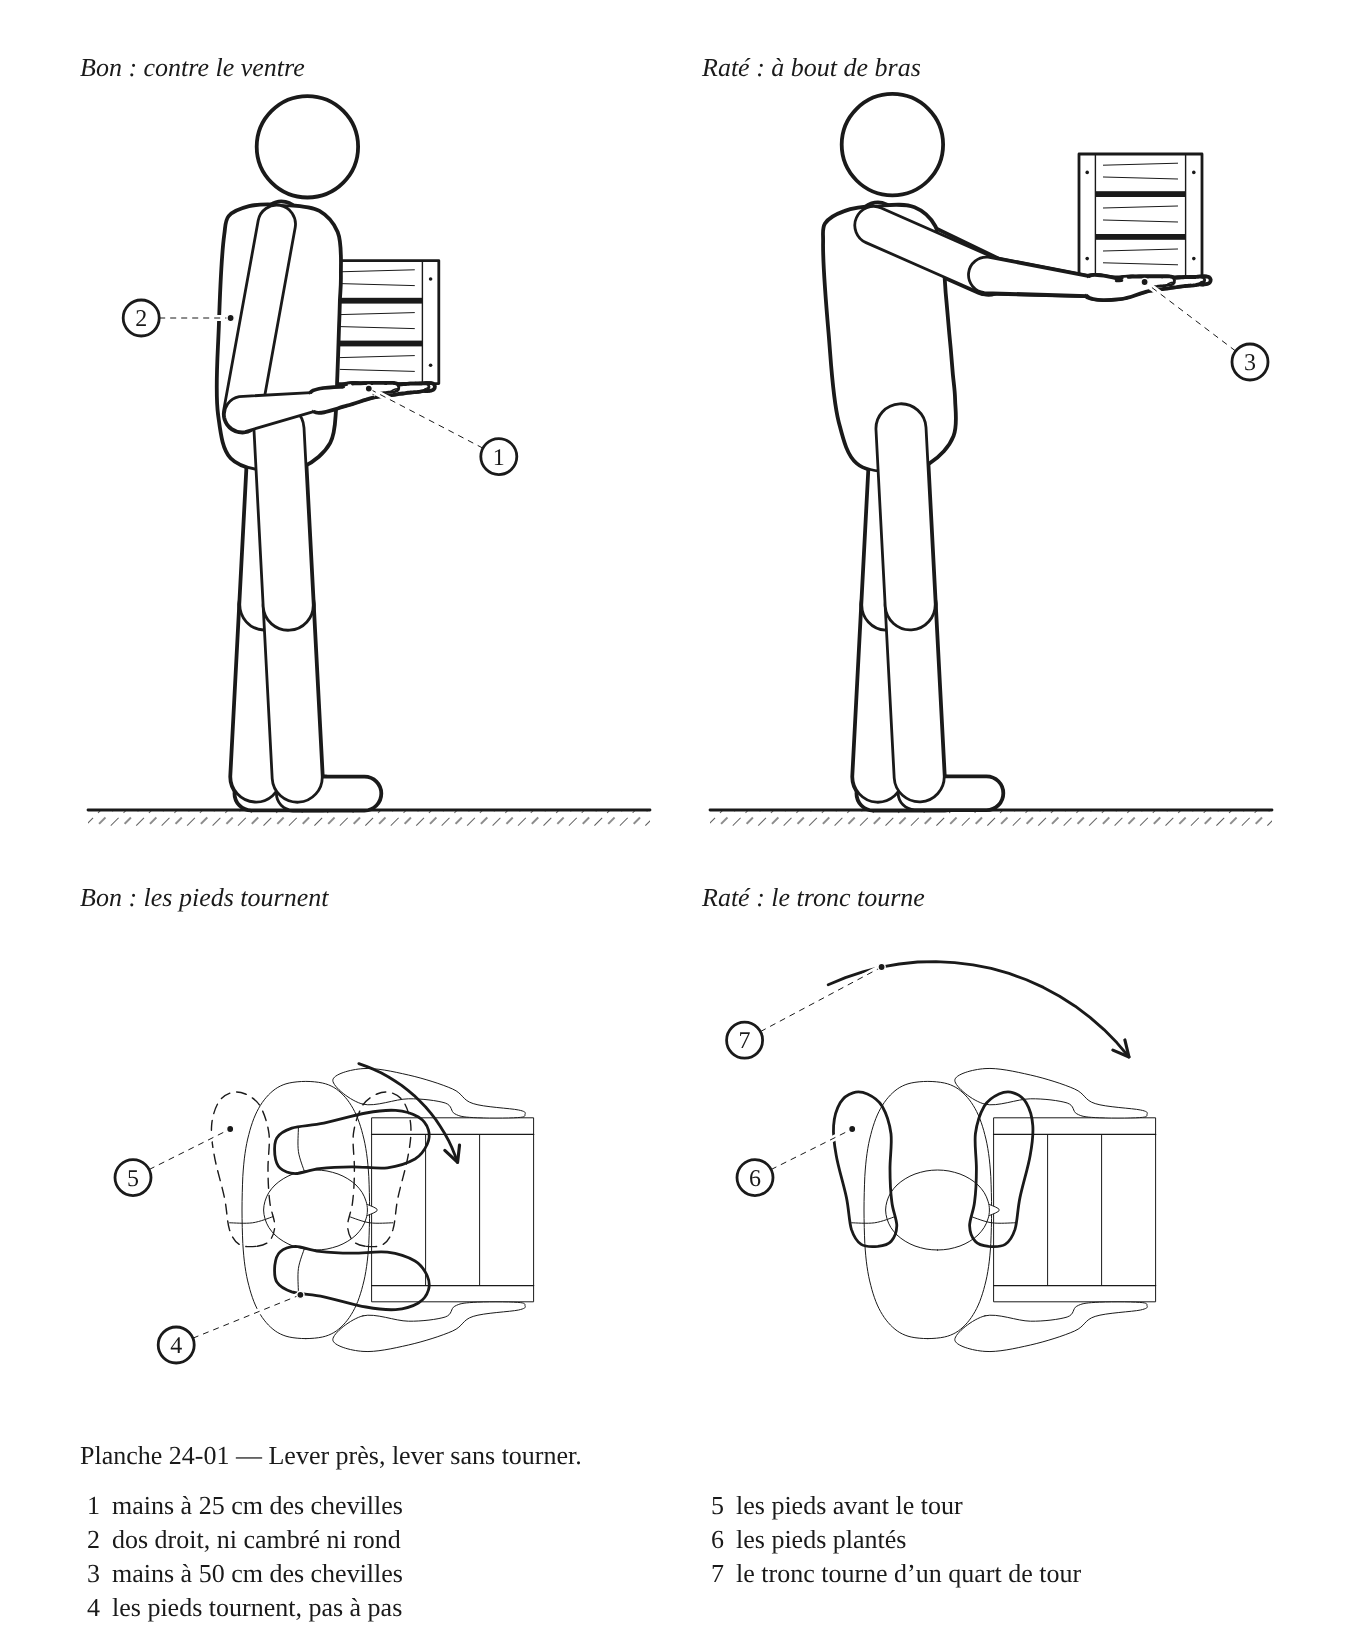
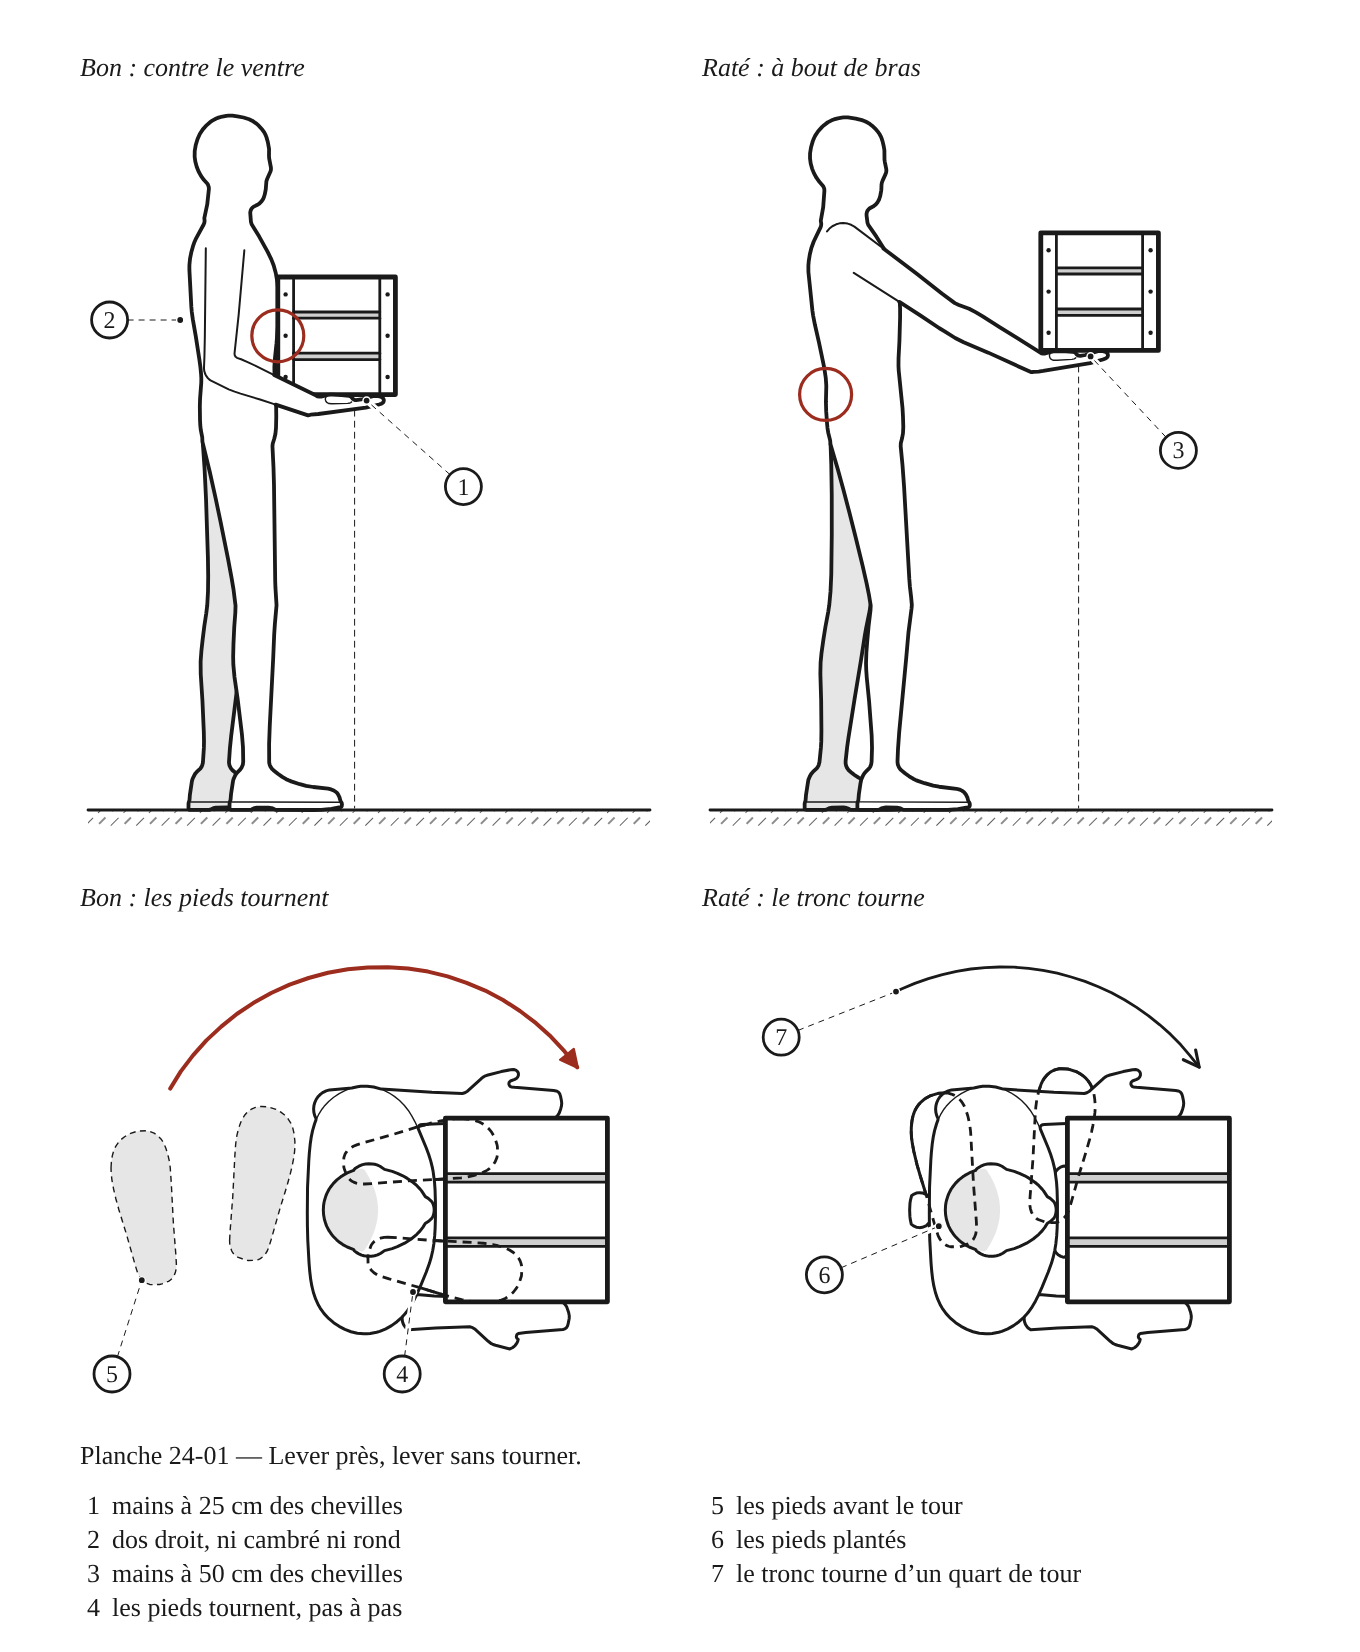
Corps simples dans les planches : pilote 99-05
Claude-Session: https://claude.ai/code/session_014xDY5FLxFXDJt3nYAYznSZ

diff --git a/images/planches-src/26-40.js b/images/planches-src/26-40.js
@@ -169,19 +169,23 @@ module.exports = (h) => {
     const pat0 = F.corps({ x: 0, y: yg, pose: 'couche-dos', echelle: e }), dp = x + (l - (pat0.boite.x1 - pat0.boite.x0)) / 2 - pat0.boite.x0 + 2;
     const A = pat0.articulations;
     const xt = A.hancheP[0] + 0.5 * (A.genouP[0] - A.hancheP[0]), yt = Math.min(...coupesX(pat0, xt));
-    const a = 4, ep = 28 * e;                                   // le bras droit ; l'épaisseur d'une main
-    const angles = (t, ab) => ({ tronc: t, brasP: a, avantbrasP: a, mainP: 90, brasL: a - (ab - a) * 0.5, avantbrasL: ab, mainL: 90 });
-    const essai = (t, ab) => F.corps({ x: 0, y: yg, pose: 'genoux-appuie', echelle: e, trait: 'fort', angles: angles(t, ab) });
-    const t = bissection(t => essai(t, a).mainP.y - yt, 20, 80);
-    const ab = bissection(ab => { const g = essai(t, ab); return (g.mainP.y - ep) - g.mainL.y; }, a, a + 40, 9);
-    const g0 = essai(t, ab), da = xt + dp - g0.mainP.x;
+    // Les deux mains à plat l'une sur l'autre ne se lisent pas à cette taille (une main fait 3 px
+    // d'épaisseur) : la main loin reste cachée derrière la proche, la vue de dessus montre les deux.
+    const a = 4, angles = t => ({ tronc: t, brasP: a, avantbrasP: a, mainP: 90, brasL: a, avantbrasL: a, mainL: 90 });
+    const essai = t => F.corps({ x: 0, y: yg, pose: 'genoux-appuie', echelle: e, trait: 'fort', angles: angles(t) });
+    const t = bissection(t => essai(t).mainP.y - yt, 20, 80);
+    const g0 = essai(t), da = xt + dp - g0.mainP.x;
     const S = [g0.articulations.epauleP[0] + da, g0.articulations.epauleP[1]], W = [g0.articulations.poignetP[0] + da, g0.articulations.poignetP[1]];
-    // la flèche du geste : le long des bras, du côté du tronc, jusqu'au-dessus des mains
+    // ses genoux, ses tibias et ses pieds sont derrière le blessé : coupés sous le dessus de la
+    // cuisse (sinon le pied dépasse derrière la tête et le tibia double le dos au sol)
+    const idc = 'rogne-26-40-aidant';
+    const aid = `<clipPath id="${idc}"><rect x="${f(x)}" y="${f(y)}" width="${f(l)}" height="${f(yt + 1 - y)}"/></clipPath>\n<g clip-path="url(#${idc})">\n${deplace(g0, da)}\n</g>`;
+    // la flèche du geste : le long des bras, côté tronc, jusqu'au-dessus des mains
     const u = [W[0] - S[0], W[1] - S[1]], lu = Math.hypot(u[0], u[1]), n = [-u[1] / lu, u[0] / lu];
-    const off = -7, p0 = [S[0] + u[0] * 0.18 + n[0] * off, S[1] + u[1] * 0.18 + n[1] * off], p1 = [S[0] + u[0] * 0.86 + n[0] * off, S[1] + u[1] * 0.86 + n[1] * off];
-    return (memo[cle] = { svg: [h.rect(x, y, l, ht, h.a.fin), deplace(g0, da), deplace(pat0, dp), h.ligne(x + 3, yg, x + l - 3, yg, h.a.detail),
+    const off = 10, p0 = [S[0] + u[0] * 0.15 + n[0] * off, S[1] + u[1] * 0.15 + n[1] * off], p1 = [S[0] + u[0] * 0.9 + n[0] * off, S[1] + u[1] * 0.9 + n[1] * off];
+    return (memo[cle] = { svg: [h.rect(x, y, l, ht, h.a.fin), aid, deplace(pat0, dp), h.ligne(x + 3, yg, x + l - 3, yg, h.a.detail),
       h.geste(`M${pt(p0)} L${pt(p1)}`)].join('\n'),
-      bras: [(S[0] + W[0]) / 2, (S[1] + W[1]) / 2], W, mainP: [g0.mainP.x + da, g0.mainP.y], tronc: t, ab });
+      bras: [(S[0] + W[0]) / 2, (S[1] + W[1]) / 2], W, mainP: [g0.mainP.x + da, g0.mainP.y], tronc: t });
   };
   // ─── A. Appuyer : vue de dessus, la cuisse de la hanche au genou, la compresse sur la plaie, les
   // deux mains à plat l'une sur l'autre ; en haut, la posture qui met le poids dans les bras tendus.

diff --git a/images/planches-src/99-05.js b/images/planches-src/99-05.js
@@ -1,6 +1,10 @@
 // Planche 99-05 — Faucher à la faux, et aiguiser à la pierre.
 // Chapitre 99, étapes 54 et 55. Aucune cote : le chapitre ne donne aucune mesure de fabrication
 // (le manche est « à la taille du faucheur ») ; 75 cm et 175 cm sont dans la légende.
+// Le faucheur est le corps simple de la bibliothèque (pose « faucher »). La charte : la faux pèse
+// (contour 2,4) ; le fauché en gris loin ; la face à l'ombre du manche, de l'anneau et du biseau ;
+// le rouge sur le coup (dessus), la pierre qui descend du dos au fil (debout, en coupe), la lame à
+// plat à contrôler (profil) et la zone du fil, là où la pierre dérape (étape 55).
 module.exports = (h) => {
   const F = h.formes;
   const f = v => (+v).toFixed(1);
@@ -138,7 +142,7 @@ module.exports = (h) => {
   return {
     ref: '99-05',
     titre: 'Faucher à la faux, et aiguiser à la pierre',
-    desc: 'De profil, le faucheur réglé sur sa faux : bras tendus, les deux mains à peu près à la même hauteur sur les poignées, la lame à plat sur le sol. Vu de dessus : les pieds, la lame en milieu de coup, le demi-cercle de droite à gauche vers l’herbe déjà fauchée, la marche en ligne droite et l’andain laissé derrière. Debout, le manche posé par terre et la pointe à droite : la main gauche tient la lame par le dos, derrière la pierre, qui descend du dos vers le fil à petits coups du talon vers la pointe. En coupe : la pierre sur le dessus, puis sur le dessous.',
+    desc: 'De profil, le faucheur réglé sur sa faux : bras tendus, chaque poing sur sa poignée, les deux mains à peu près à la même hauteur, la lame à plat sur le sol, cerclée de rouge. Vu de dessus : les pieds, la lame en milieu de coup, le demi-cercle rouge de droite à gauche vers l’herbe déjà fauchée (en gris), la marche en ligne droite et l’andain laissé derrière. Debout, le manche posé par terre et la pointe à droite : la main gauche tient la lame par le dos, derrière la pierre, qui descend du dos vers le fil (flèche rouge) à petits coups du talon vers la pointe ; un tireté rouge longe le fil, là où la pierre dérape. En coupe : la pierre sur le dessus, puis sur le dessous.',
     format: 'pleine',
     disposition: [['profil', 'dessus'], ['pierre', 'coupe']],
     hauteurs: [1.45, 1],

diff --git a/images/planches-src/24-01.js b/images/planches-src/24-01.js
@@ -14,7 +14,6 @@
 // raté, reste noire : ce n'est pas un geste à faire.
 module.exports = (h) => {
   const A = h.a, F = h.formes;
-  const W = at => at.replace('fill="none"', 'fill="#FFFFFF"');
   const f1 = v => Math.round(v * 10) / 10;
   const pt = p => `${f1(p[0])} ${f1(p[1])}`;
   const RAD = Math.PI / 180;
@@ -51,7 +50,7 @@ module.exports = (h) => {
   };
 
   // un homme debout porte la caisse sur ses deux paumes ; la caisse passe entre le tronc et le bras
-  // proche. dos : 'ventre' (le dos de la caisse contre le ventre) ou 'poignet' (la caisse au bout des
+  // proche. cle : 'ventre' (le dos de la caisse contre le ventre) ou 'poignet' (la caisse au bout des
   // mains, son dos au ras des poignets)
   const profil = (z, pose, cle, angles) => {
     const G = z.h - 12, x0 = z.l * 0.27;
@@ -61,10 +60,9 @@ module.exports = (h) => {
     const bx = cle === 'ventre' ? bordAvant(sonde.svg, yb - mm(CH), yb) - 0.6 : sonde.poignetP[0] + mm(12);
     const by = yb - mm(CH);
     const c = F.corps({ ...base, objetP: caisse(bx, by, mm(CL), mm(CH)) });
-    const cheville = c.pieds.P.cheville;
     // l'aplomb des mains : du dessous des mains au sol, pour lire leur distance aux chevilles
     const plomb = h.ligne(c.mainP.x, yb + mm(40), c.mainP.x, G - 1, A.fin + ' stroke-dasharray="3 2.5"');
-    return { svg: [sol(4, z.l - 4, G), c.svg, plomb].join('\n'), G, c, bx, by, yb, cheville, art: c.articulations };
+    return { svg: [sol(4, z.l - 4, G), c.svg, plomb].join('\n'), G, c, bx, by, yb, art: c.articulations };
   };
   // les angles retouchés pour que les mains tombent à 250 et à 500 mm de la cheville proche (le
   // point de contrôle du chapitre) ; à bout de bras, les bras tendus, la caisse presque à la même
